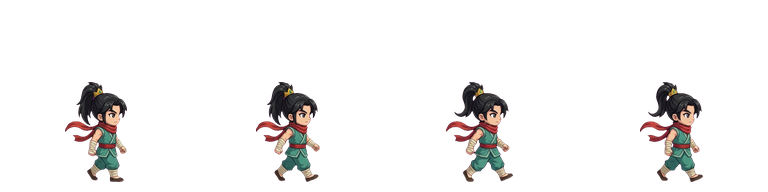
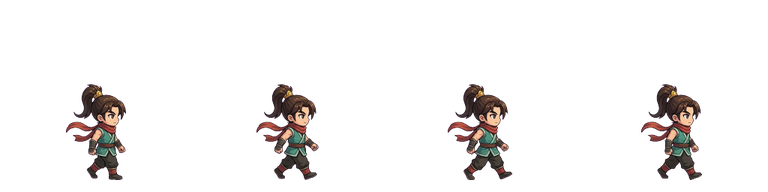
art(redraw_18): restore original town hero and unify all 8 battle fist strips to town palette

diff --git a/docs/plan_progress_todo.md b/docs/plan_progress_todo.md
@@ -46,7 +46,7 @@
 |---|---|---|
 | 部署最新 `Code.gs` | 已升至 `v0.9-fix-1`（含 `minWin`、清榜清 `mapBests`、流派/天赋校验、读表优化），**请重新部署新版本**并访问 `?action=ping` 核对 `rev` | 你 |
 | 集中真机试玩 + 5 项决策 | 按一页模板 `docs/playtest_feedback_template.md` 一次性复测：赤焰巅 6 分钟、八卦阵新规则与彩蛋、天赋页、抽卡提示、海棠屿通关上传、iPad 画质、音效 v2 试听，并拍板 5 个决策 | 你 |
-| B 线美术走查 | `redraw_18.md`（武者缺刘海 4 帧 + 小镇三向配色统一）**已直接由 Gemini 完成重画并接入验收**；另已生成 7 张对照图在 `docs/redraw/audit/` 并预整理 `docs/redraw/redraw_19.md` 草稿，待你复核确认后即可直接派 Gemini 生成 | 你复核 `redraw_19` |
+| B 线美术走查 | `redraw_18.md`（武者缺刘海 4 帧 + 局内全 8 条配色按小镇原版统一）**已完成重画并接入验收**；另已生成 7 张对照图在 `docs/redraw/audit/` 并预整理 `docs/redraw/redraw_19.md` 草稿，待你复核确认后即可直接派 Gemini 生成 | 你复核 `redraw_19` |
 
 ## 四、待办（按线）
 ### A 线：强度平衡（V0.95 之前）
@@ -58,7 +58,7 @@
 ### B 线：美术检查
 | 项 | 说明 | 谁 |
 |---|---|---|
-| **逐个职业检查 sprite** | **武者 `docs/redraw/redraw_18.md` 已完成重画并接入**（`idle` f2 / `dash` f2 / `ult` f2–f3 补齐中分刘海且其余帧 0 字节改动；小镇 `hero_down/side/up` 全部统一黑发+金绿冠+青绿衫裤+红腰带+白缠手裹腿+深褐布鞋）；剑客 / 刀客 / 杨家将逐帧图已生成于 `docs/redraw/audit/`，初审草稿在 **`docs/redraw/redraw_19.md`** | 武者 ✅ / 你复核 `redraw_19` |
+| **逐个职业检查 sprite** | **武者 `docs/redraw/redraw_18.md` 已完成并接入**：小镇三向保持原版不变；局内武者全 8 条动画（41 帧）已补齐 `idle` f2 / `dash` f2 / `ult` f2–f3 刘海，并统一为**深灰黑裤子 + 深色腰带 + 深色皮护腕 + 红色脚踝绑带**与小镇一致；剑客 / 刀客 / 杨家将逐帧图已生成于 `docs/redraw/audit/`，初审草稿在 **`docs/redraw/redraw_19.md`** | 武者 ✅ / 你复核 `redraw_19` |
 | 重画计划书核对 | **已核对完毕**：`redraw_14` / `15` / `16` / `17` **均已接入**，已同步 `docs/redraw/README.md` | ✅ 完成 |
 | **武器与装备图标接入** | **已修复接入全部 36 个此前未接线的图标**（拳套 10 + 剑 10 + 分流派防具/配饰 16），并清理无引用旧图 `assets/ui/meridian_bg.jpg` | ✅ 完成 |
 | 资产对照表 | **已生成全部 7 张对照图**（`docs/redraw/audit/`：3 职业逐帧 + 心法/轻功/九式 + 怪物/Boss + 40 武器/装备部位 + 立绘/封面/横幅/结算图）；IP 画面与文本全量扫描通过（0 原作词残留），4 张旧意象图标已写入 `redraw_19.md` | 你复核 |

diff --git a/docs/redraw/README.md b/docs/redraw/README.md
@@ -30,7 +30,7 @@
 | `redraw_15.md` | 3 张无缝地面瓦片补画 + 精英循环修复 | 已接入（`6fb73ac`） |
 | `redraw_16.md` | Boss 立绘与精灵不一致：按精灵重画 7 张 + 刀客立绘 | 已接入（`026cbfe`） |
 | `redraw_17.md` | 全部 37 个招式图标按名称和特效重画（附 `ref17/` 对照图） | 已接入 |
-| `redraw_18.md` | 武者 sprite 逐帧检查的修正（缺刘海 4 帧 + 小镇配色统一） | 已接入（局内 4 帧补刘海 + 小镇三向统一配色） |
+| `redraw_18.md` | 武者 sprite 逐帧检查的修正（缺刘海 4 帧 + 局内 8 条配色统一为小镇原版） | 已接入（局内 4 帧补刘海 + 局内全 8 条裤子/腰带/护腕/裹腿按小镇原版统一） |
 | `redraw_19.md` | B 线其余职业/图标初审修正草稿（杨家将/剑客/4 张旧意象图标） | 草稿待复核 |
 | `redraw_later.md` | 华山五魁首、第 4~6 关（等关卡开发再画） | 后期 |
 
